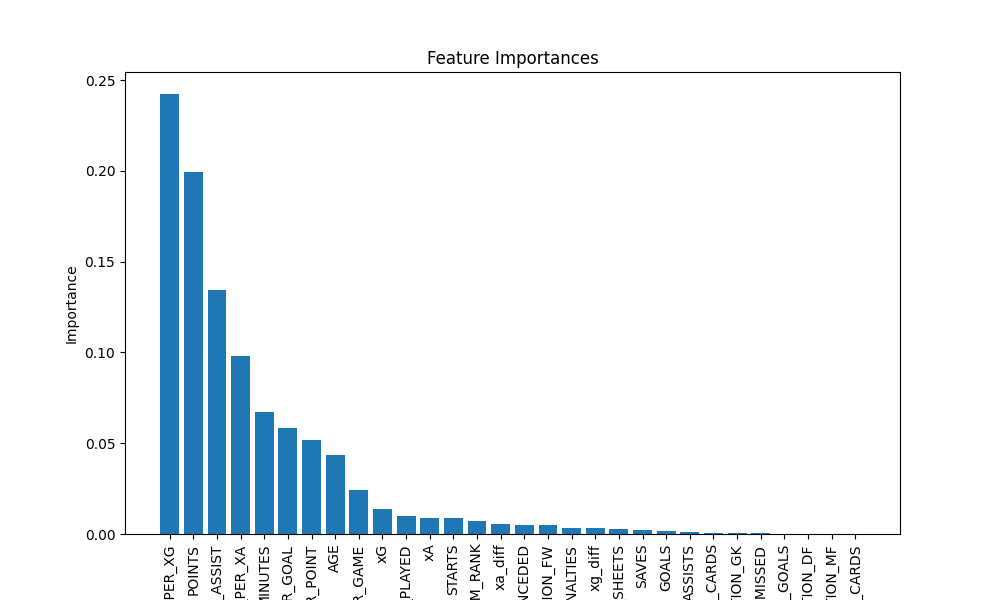
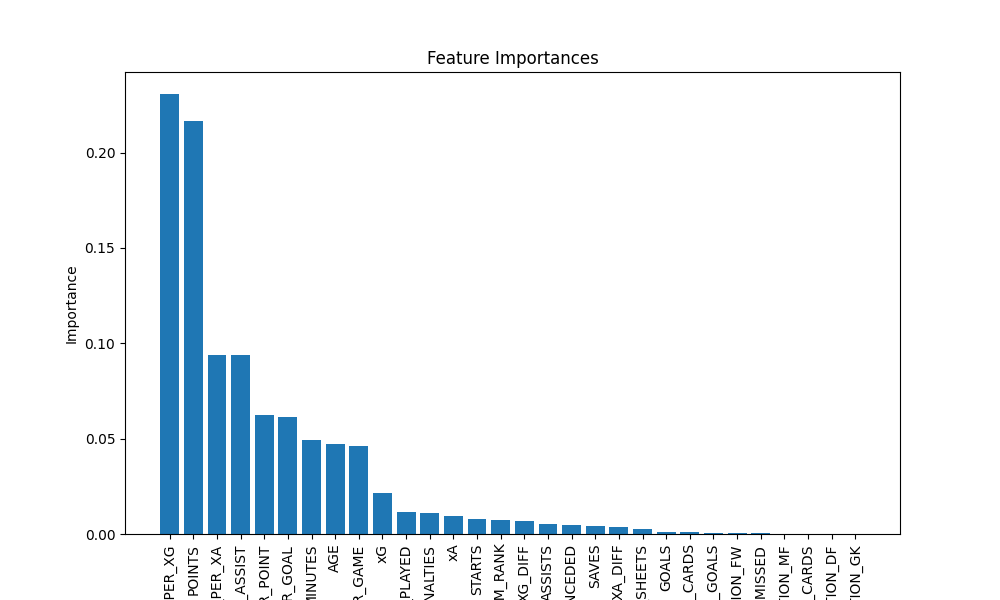
Fix shap plot

diff --git a/squad_selector/__main__.py b/squad_selector/__main__.py
@@ -45,36 +45,36 @@ if __name__ == "__main__":
     squad.to_csv("SQUAD.csv")
     feature_names = [
         "AGE",
-        "TEAM_RANK",
-        "POSITION_GK",
-        "POSITION_DF",
-        "POSITION_MF",
-        "POSITION_FW",
-        "MATCHES_PLAYED",
-        "STARTS",
-        "MINUTES",
-        "GOALS",
-        "ASSISTS",
-        "PENALTIES",
-        "PENALTIES_MISSED",
-        "YELLOW_CARDS",
-        "RED_CARDS",
-        "xG",
-        "xA",
-        "OWN_GOALS",
-        "GOALS_CONCEDED",
-        "CLEAN_SHEETS",
-        "SAVES",
-        "POINTS",
-        "MINUTES_PER_ASSIST",
-        "MINUTES_PER_GOAL",
-        "MINUTES_PER_GAME",
-        "MINUTES_PER_POINT",
-        "MINUTES_PER_XG",
-        "MINUTES_PER_XA",
-        "xg_diff",
-        "xa_diff",
-        "NEXT_SEASON_POINTS",
+            "TEAM_RANK",
+            "POSITION_GK",
+            "POSITION_DF",
+            "POSITION_MF",
+            "POSITION_FW",
+            "MATCHES_PLAYED",
+            "STARTS",
+            "MINUTES",
+            "GOALS",
+            "ASSISTS",
+            "PENALTIES",
+            "PENALTIES_MISSED",
+            "YELLOW_CARDS",
+            "RED_CARDS",
+            "xG",
+            "xA",
+            "OWN_GOALS",
+            "GOALS_CONCEDED",
+            "CLEAN_SHEETS",
+            "SAVES",
+            "POINTS",
+            "MINUTES_PER_ASSIST",
+            "MINUTES_PER_GOAL",
+            "MINUTES_PER_GAME",
+            "MINUTES_PER_POINT",
+            "MINUTES_PER_XG",
+            "MINUTES_PER_XA",
+            "XG_DIFF",
+            "XA_DIFF",
+            "NEXT_SEASON_POINTS",
     ]
     encoded_data = predictor.encode_data(train_data)
     encoded_data = encoded_data[
